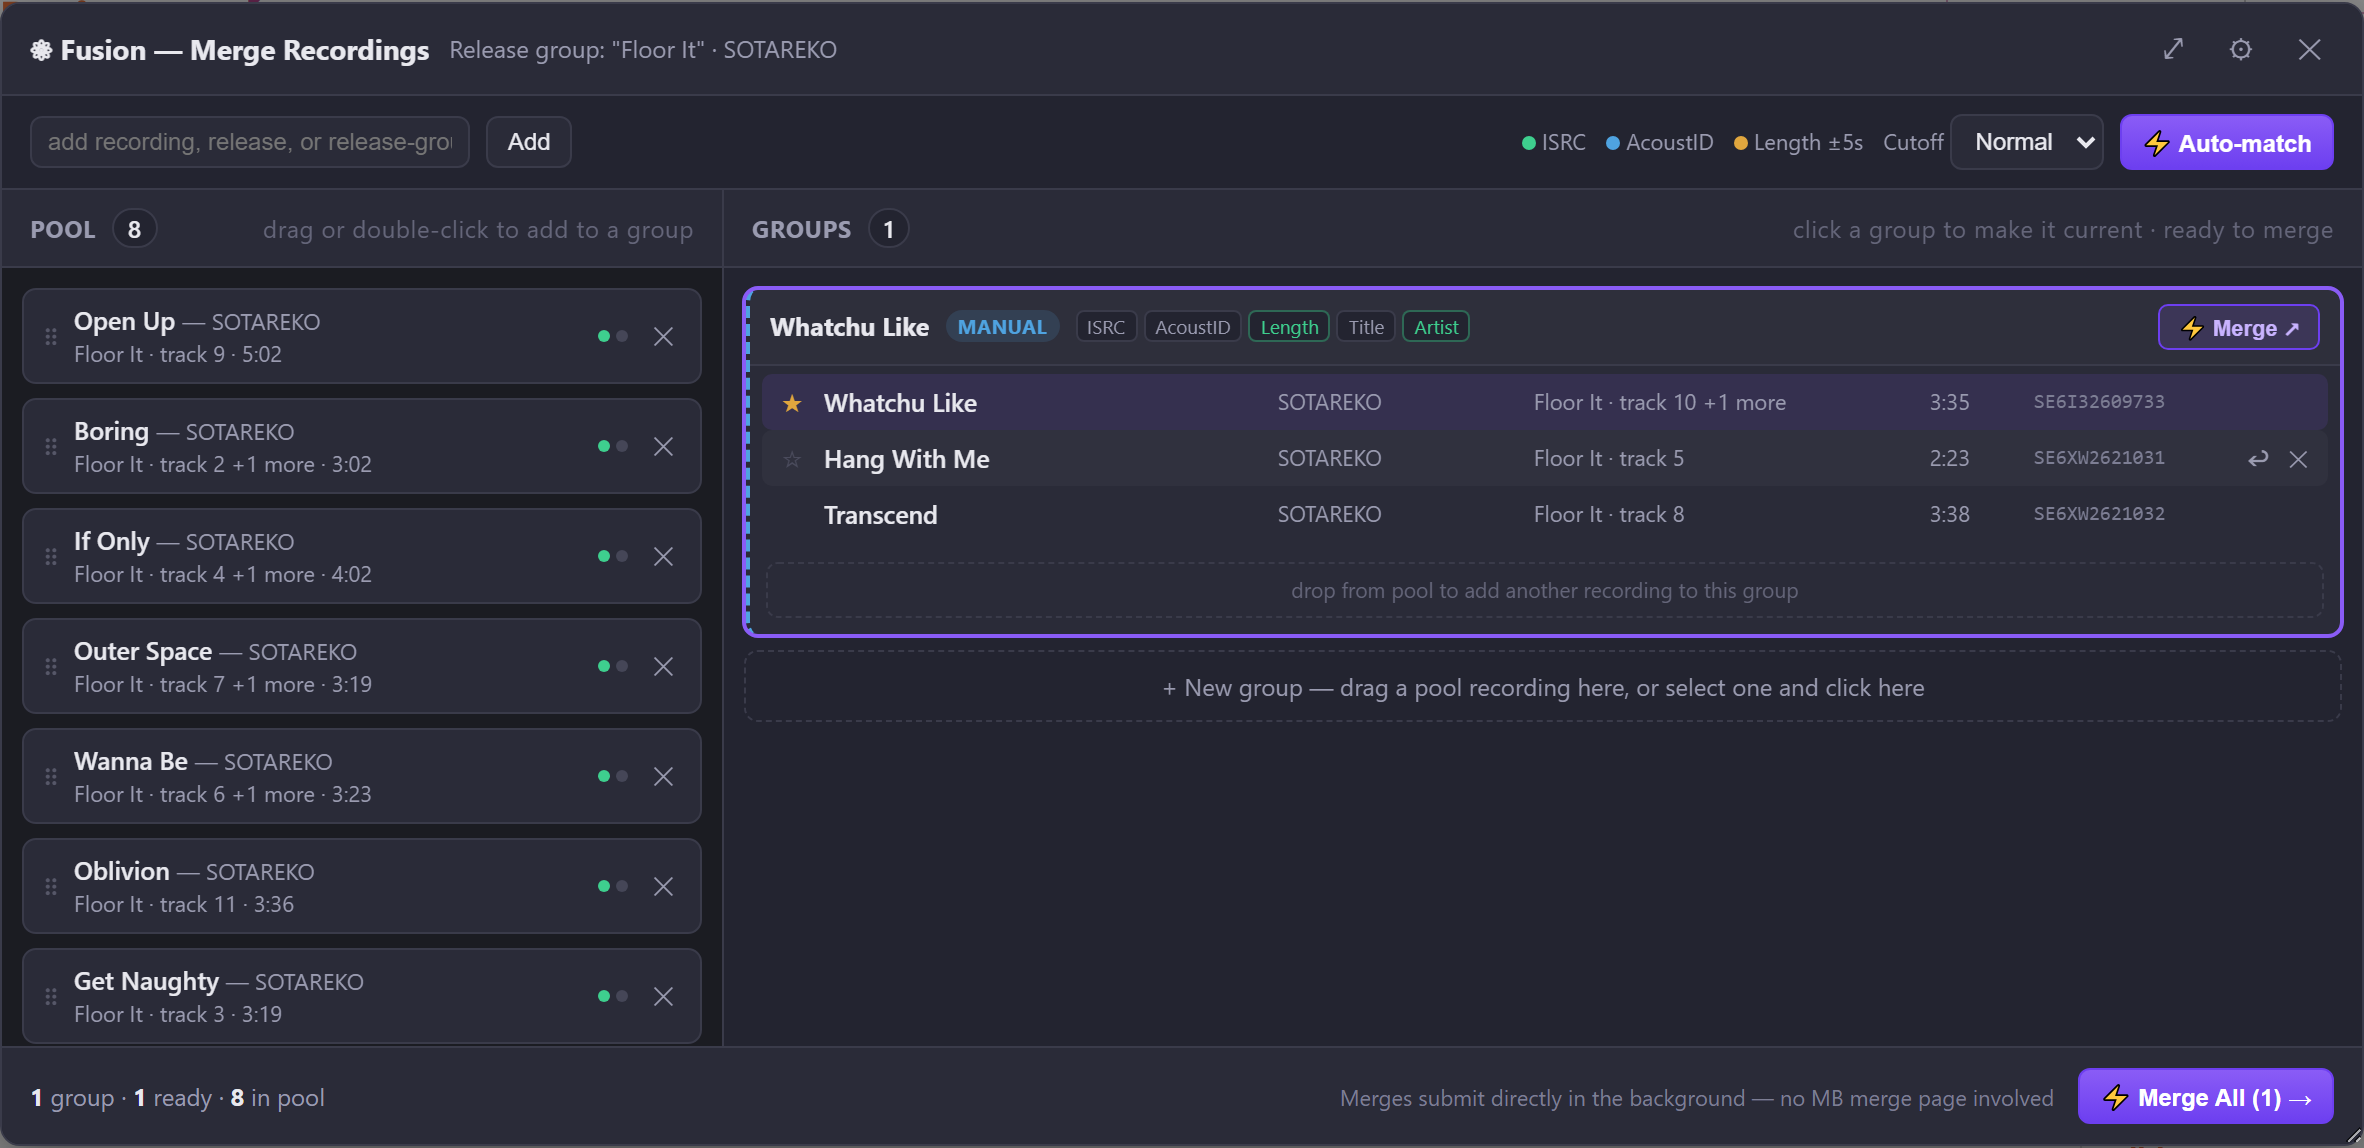
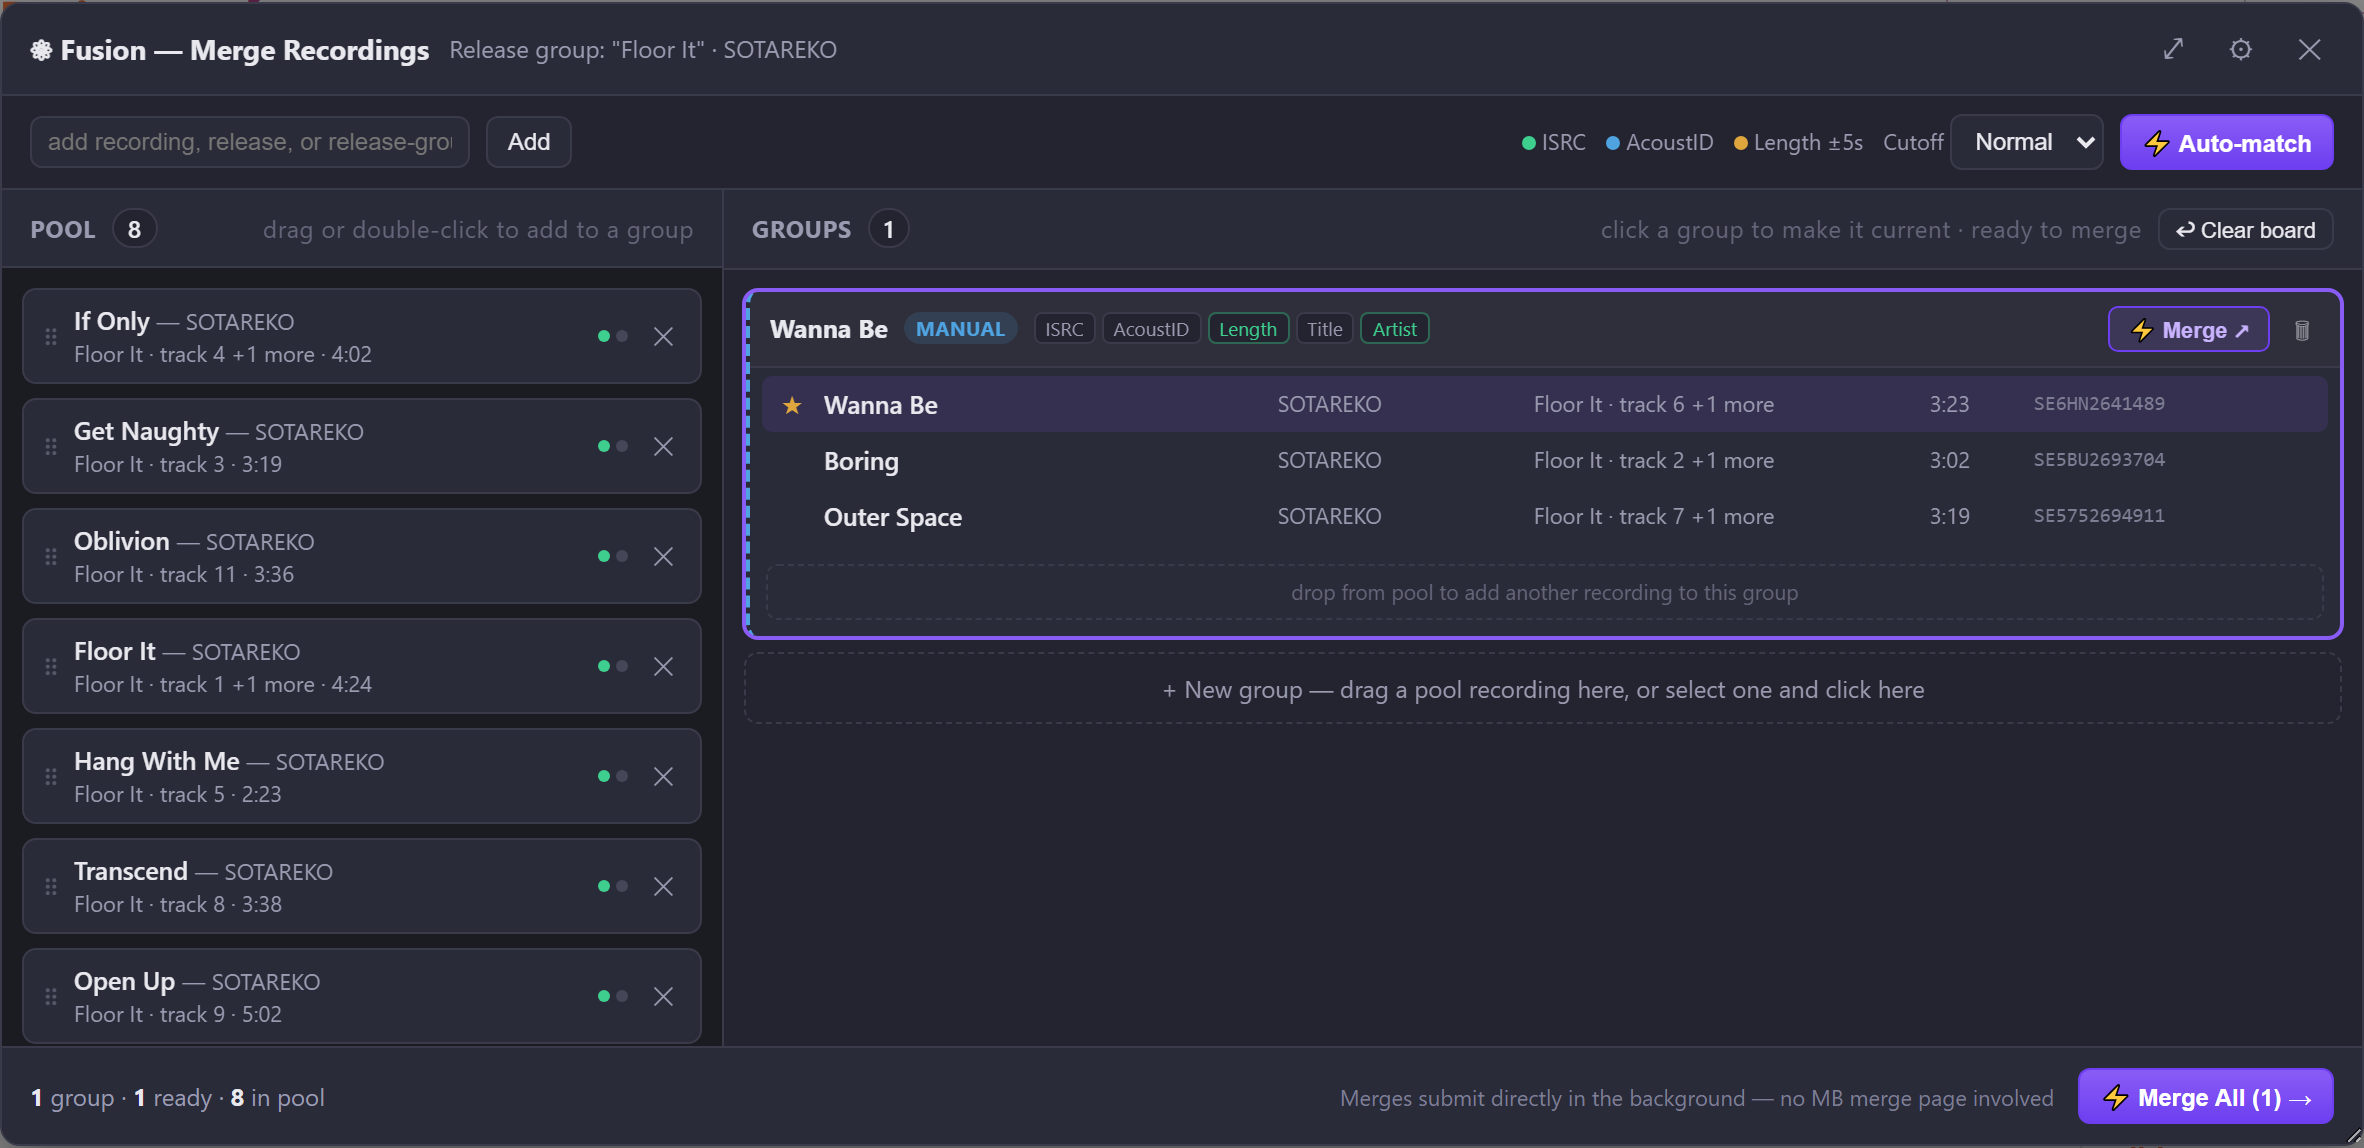
fusion: delete group / clear board, parallel Merge All (#529)
- Merge All now runs up to 3 merges concurrently instead of one at a
  time with an artificial delay between each
- 🗑 on a group card deletes it, returning its members to the pool
- "Clear board" (groups column header) does the same for every group
  at once
- investigated "remember maximized state" — live-verified (same
  session and across a real page reload) that it already persists
  correctly; couldn't reproduce, likely an install lag on his end

Extended test/verify-529-fusion.mjs with regression checks for
deleteGroup/clearBoard.

diff --git a/userscripts/fusion/fusion.user.js b/userscripts/fusion/fusion.user.js
@@ -1,7 +1,7 @@
 // ==UserScript==
 // @name         Fusion
 // @namespace    https://musicbrainz.org/
-// @version      2026.8.20.214150
+// @version      2026.8.20.220434
 // @description  Merge-recordings assistant for MusicBrainz: gather a pool of candidate recordings from a release / release group / recording page (or paste any MBID/URL), auto-match them into merge groups by ISRC / AcoustID / length / title+artist, review and adjust the groups, then submit the merges directly in the background — no MB merge page involved.
 // @author       majkinetor
[1 lines of base64/hex data omitted]
@@ -20,7 +20,7 @@
 (function () {
 'use strict';
 
-const VERSION = (typeof GM_info !== 'undefined' && GM_info && GM_info.script && GM_info.script.version) || '2026.8.20.214150';
+const VERSION = (typeof GM_info !== 'undefined' && GM_info && GM_info.script && GM_info.script.version) || '2026.8.20.220434';
 const HELP_URL = 'https://github.com/majkinetor/musicbrainz-userscripts/blob/main/userscripts/fusion/README.md';
 const ICON = '⚛';
 const W = (typeof unsafeWindow !== 'undefined' ? unsafeWindow : window);
@@ -437,6 +437,23 @@ function createGroupWithMember(gid) {
     Log.info('Created new group with ' + gid);
     return g;
 }
+// #529 follow-up (majkinetor): "Make me able to kill entire group and also
+// clear entire board (all items are returned to pool)." A killed/cleared
+// group's members go back to the pool — nothing here permanently drops a
+// recording, that's still only the pool's own ✕/group-row ✕.
+function deleteGroup(groupId) {
+    const g = findGroup(groupId); if (!g) return;
+    if (g.state === 'busy') { Log.warn('Cannot delete group ' + groupId + ' while it is merging'); return; }
+    g.memberGids.forEach(gid => { if (!STATE.poolOrder.includes(gid)) STATE.poolOrder.push(gid); });
+    STATE.groups = STATE.groups.filter(x => x.id !== groupId);
+    if (STATE.activeGroupId === groupId) STATE.activeGroupId = null;
+    Log.info('Deleted group ' + groupId + ' — ' + g.memberGids.length + ' member(s) returned to pool');
+}
+function clearBoard() {
+    const n = STATE.groups.length;
+    STATE.groups.slice().forEach(g => deleteGroup(g.id));
+    Log.info('Cleared board — ' + n + ' group(s) dissolved, every member returned to the pool');
+}
 
 function pairSignals(a, b, tolMs) {
     const sig = { isrc: false, acoustid: false, length: false, title: false, artist: false };
@@ -539,9 +556,17 @@ async function mergeGroup(group) {
     }
     renderGroups(); renderFooter();
 }
-async function mergeAll() {
+// #529 follow-up (majkinetor): "Merge all should be parallel if possible" —
+// each merge is its own GET+POST pair, independent of every other group's, so
+// a small worker pool runs several at once instead of one strictly after
+// another. Capped (not unbounded) to stay reasonable towards MB's server.
+async function mergeAll(concurrency) {
+    concurrency = concurrency || 3;
     const pending = STATE.groups.filter(g => g.state === 'pending' || g.state === 'error');
-    for (const g of pending) { await mergeGroup(g); await new Promise(res => setTimeout(res, 900)); }
+    Log.info('Merge All: ' + pending.length + ' group(s), up to ' + Math.min(concurrency, pending.length) + ' in parallel');
+    let i = 0;
+    async function worker() { while (i < pending.length) { await mergeGroup(pending[i++]); } }
+    await Promise.all(Array.from({ length: Math.min(concurrency, pending.length) }, worker));
 }
 
 /* ════════════════════════════════ UI ════════════════════════════════ */
@@ -614,6 +639,9 @@ function fsStyle() {
         + '.fs-mbtn{font-size:11px;padding:3px 9px;border-radius:5px;border:1px solid var(--fs-purple-d);background:rgba(138,92,246,.15);color:#c9b3ff;cursor:pointer;font-weight:600}'
         + '.fs-mbtn.fs-done{background:rgba(62,207,142,.15);border-color:var(--fs-green);color:var(--fs-green);cursor:default}'
         + '.fs-mbtn.fs-err{background:rgba(224,84,106,.15);border-color:var(--fs-red);color:#ffb3bd}'
+        + '.fs-kill{cursor:pointer;font-size:13px;padding:2px 4px;opacity:.6}'
+        + '.fs-kill:hover{opacity:1}'
+        + '.fs-clearboard-btn{padding:2px 8px;font-size:11px;text-transform:none;font-weight:400;letter-spacing:0}'
         + '.fs-grows{padding:4px 6px}'
         + '.fs-grow{display:flex;align-items:center;gap:8px;padding:5px 7px;border-radius:5px}'
         + '.fs-grow:hover{background:rgba(255,255,255,.03)}'
@@ -733,7 +761,8 @@ function groupCardHtml(group) {
         + '<div class="fs-ghdr"><span class="fs-gt" title="' + escapeHtml(head ? head.title : '') + '">' + (head ? recLink(head.gid, head.title) : 'New group') + '</span>'
         + '<span class="fs-conf fs-conf-' + confClass + '">' + confLabel + '</span>'
         + '<div class="fs-sig">' + sigChips + '</div><div class="fs-sp"></div>'
-        + '<button class="fs-mbtn ' + stateCls + '" type="button" data-act="merge-group" ' + (busy || done || tooFew ? 'disabled' : '') + '>' + stateLabel + '</button></div>'
+        + '<button class="fs-mbtn ' + stateCls + '" type="button" data-act="merge-group" ' + (busy || done || tooFew ? 'disabled' : '') + '>' + stateLabel + '</button>'
+        + '<span class="fs-kill" data-act="delete-group" title="delete this group — members return to the pool" ' + (busy ? 'style="display:none"' : '') + '>🗑</span></div>'
         + '<div class="fs-grows">' + rows + '</div>' + errMsg + dropZone + '</div>';
 }
 
@@ -938,6 +967,7 @@ function wireDelegatedEvents() {
         if (act === 'return' && row) { returnToPool(row.dataset.gid, card.dataset.gid); renderAll(); return; }
         if (act === 'remove-both' && row) { removeFromGroupAndPool(row.dataset.gid, card.dataset.gid); renderAll(); return; }
         if (act === 'merge-group') { mergeGroup(findGroup(card.dataset.gid)); return; }
+        if (act === 'delete-group') { deleteGroup(card.dataset.gid); renderAll(); return; }
         if (act === 'drop-zone' && STATE.selected && STATE.poolOrder.includes(STATE.selected)) { addToGroup(STATE.selected, card.dataset.gid); STATE.activeGroupId = card.dataset.gid; STATE.selected = null; renderAll(); return; }
     });
     // "entire zone" drag&drop (#529 follow-up): dropping anywhere over a group
@@ -1036,7 +1066,7 @@ function buildShell() {
         + '<button type="button" id="fs-automatch" class="fs-btn fs-primary">⚡ Auto-match</button></div>'
         + '<div class="fs-body"><div class="fs-col fs-pool"><div class="fs-colhdr">Pool <span class="fs-cnt" id="fs-pool-cnt">0</span><span class="fs-sp"></span><span class="fs-hint">drag or double-click to add to a group</span></div>'
         + '<div class="fs-colbody" id="fs-pool-body"></div></div>'
-        + '<div class="fs-col fs-groups"><div class="fs-colhdr">Groups <span class="fs-cnt" id="fs-groups-cnt">0</span><span class="fs-sp"></span><span class="fs-hint">click a group to make it current · ready to merge</span></div>'
+        + '<div class="fs-col fs-groups"><div class="fs-colhdr">Groups <span class="fs-cnt" id="fs-groups-cnt">0</span><span class="fs-sp"></span><span class="fs-hint">click a group to make it current · ready to merge</span><button type="button" id="fs-clearboard" class="fs-btn fs-clearboard-btn" title="delete every group — all recordings return to the pool">↩ Clear board</button></div>'
         + '<div class="fs-colbody" id="fs-groups-body"></div></div></div>'
         + '<div class="fs-ftr"><div class="fs-sum" id="fs-summary"></div><div class="fs-sp"></div>'
         + '<div class="fs-note">Merges submit directly in the background — no MB merge page involved</div>'
@@ -1050,6 +1080,7 @@ function buildShell() {
     document.getElementById('fs-add-input').addEventListener('keydown', e => { if (e.key === 'Enter') onAddByMbid(); });
     document.getElementById('fs-automatch').onclick = onAutoMatch;
     document.getElementById('fs-mergeall').onclick = mergeAll;
+    document.getElementById('fs-clearboard').onclick = () => { clearBoard(); renderAll(); };
     document.getElementById('fs-rg-editions').addEventListener('change', onLoadRgEdition);
     document.getElementById('fs-cutoff').addEventListener('change', e => { SETTINGS.matchCutoff = e.target.value; saveSettings(); Log.info('Match cutoff set to ' + SETTINGS.matchCutoff); });
     wireWindowChrome(document.getElementById('fs-cons'), document.getElementById('fs-hdr'), document.getElementById('fs-max'));
@@ -1148,7 +1179,7 @@ try {
         normName, tokenMatch, titleSimilar, artistSimilar, lengthClose, fuzzyRatio, levenshtein, acName, acPrimaryGid, dur, parseMbidFromInput, parseAddInput,
         mkRecording, fetchReleaseRecordings, fetchRGRecordings, fetchRecordingByGid, fetchAllReleases, resolveInternalId, fetchAcoustIds,
         pairSignals, computeGroupConfidence, shouldUnion, autoMatch, enrichAcoustIds, enrichAllReleases,
-        addToPool, createGroupWithMember, addToGroup, returnToPool, removeFromGroupAndPool, removeFromPoolPermanently, findGroup,
+        addToPool, createGroupWithMember, addToGroup, returnToPool, removeFromGroupAndPool, removeFromPoolPermanently, findGroup, deleteGroup, clearBoard,
         buildEditNote, ensureInternalIds, mergeGroup, mergeAll,
         openFusion, closeFusion, seedFromScope, renderAll, scrapeArtistRecordingsTable,
         gmGet, gmPost, wsGet,

diff --git a/userscripts/fusion/README.md b/userscripts/fusion/README.md
@@ -12,7 +12,7 @@ A review-and-merge assistant for MusicBrainz recordings: gather a pool of candid
 
 - **Pool / Groups review UI** — every candidate recording starts in the left-hand **Pool**; drag one into the right-hand **Groups** column (anywhere on it, not just a narrow strip), double-click a pool card to add it straight to the *current* group, or select a pool card then click a group to add it. A recording only ever lives in one place at a time.
 - **Auto-match** — scans the pool and groups likely duplicates automatically using multiple signals: shared ISRC, shared AcoustID (read from MB's own recording→URL relationships — no external API key needed), length within a configurable tolerance, and title/artist similarity (typo-tolerant — a one-letter difference in an otherwise-identical title still matches). A **Cutoff** selector controls how strict the combination has to be: *strict* (identifiers only), *normal* (default — identifiers, or title+artist+length together), *loose* (identifiers, or title+length alone, artist not required). Re-running Auto-match only touches whatever is still in the pool, so it never undoes a group you built by hand.
-- **Full manual control** — return a recording from a group back to the pool (↩, shown on hover so it can't be clicked by accident), remove it from the group *and* the pool entirely (✕), or build a brand-new group yourself. The merge **target** (the recording that survives) always sits at the top of the card with a gold ★; hover any other row and click its ☆ to make that one the target instead — no separate column needed, the row's shaded background says which one it is. Click a group's header to make it the "current" group for double-click-adds and empty-space drops.
+- **Full manual control** — return a recording from a group back to the pool (↩, shown on hover so it can't be clicked by accident), remove it from the group *and* the pool entirely (✕), or build a brand-new group yourself. The merge **target** (the recording that survives) always sits at the top of the card with a gold ★; hover any other row and click its ☆ to make that one the target instead — no separate column needed, the row's shaded background says which one it is. Click a group's header to make it the "current" group for double-click-adds and empty-space drops. 🗑 on a group deletes it — its members go back to the pool, nothing is lost — and **Clear board** does the same for every group at once.
 - **Movable, maximizable window** — drag the header to reposition it, ⤢ to maximize/restore; both are remembered across opens.
 - **Flexible seeding** — opens with a pool already populated from wherever you launched it:
     - **Release page** — that release's own recordings, plus a *"Load recordings from RG edition"* dropdown to pull in another edition from the same release group.
@@ -21,7 +21,7 @@ A review-and-merge assistant for MusicBrainz recordings: gather a pool of candid
     - **Artist → Recordings tab** — every recording on the current page of that table (MB paginates it; reopen Fusion after paging for more).
     - Any page: paste a recording, release, or release-group MBID/URL into **Add** — a release or release-group URL pulls in every recording it contains.
 - **Recording names and artists are links** — click through to the real MB page from any card, and every row shows the recording's full list of releases, deduped, with a "+N more" hint and the complete list in the tooltip.
-- **Direct background merges** — a group's **Merge ↗** button (or the footer's **Merge All**, which drives every ready group) submits the merge itself, the same two real MusicBrainz endpoints MB's own merge page uses (`/recording/merge_queue` → `/recording/merge`), with an edit note auto-composed from whichever signals matched. No tab opens, no MB UI is shown.
+- **Direct background merges** — a group's **Merge ↗** button (or the footer's **Merge All**, which drives every ready group, several at once) submits the merge itself, the same two real MusicBrainz endpoints MB's own merge page uses (`/recording/merge_queue` → `/recording/merge`), with an edit note auto-composed from whichever signals matched. No tab opens, no MB UI is shown.
 - **Standard options / log** — the ⚙ menu holds settings (length tolerance, AcoustID enrichment on/off, always-request-a-vote) plus a **Log** button opening the full session activity log (with retry/backoff detail for MB's own rate-limiting), copyable as a Markdown block for bug reports.
 
 ## How matching works
